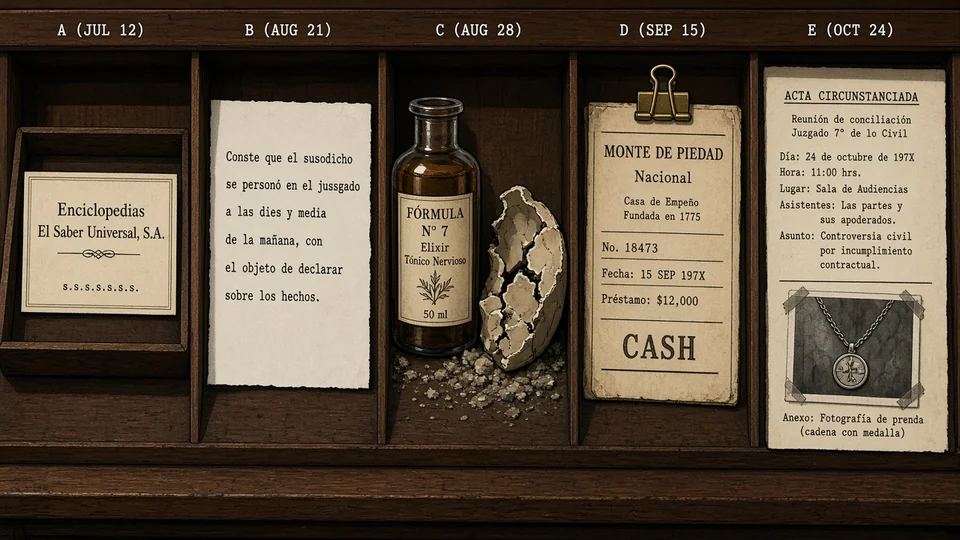
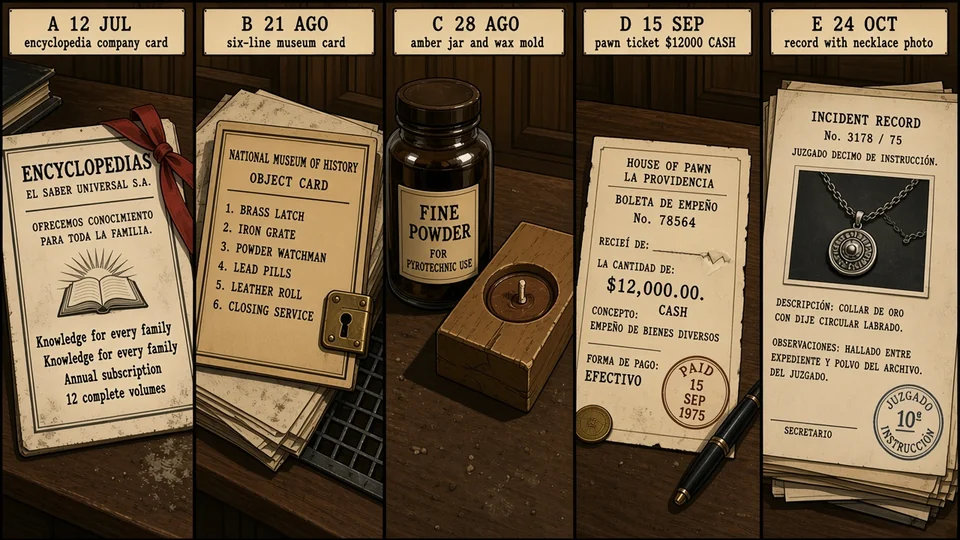
Wire English Case 5 plates into the EN climax and pointing board
Redraw examine_expediente_serie_en so panel B is the six-line museum
card, point the English Present & Point at that WebP, and show the
English four-line typewriter plate in the last climax stage.

diff --git a/src/case/case5/Private/trial_day2_success_en.ts b/src/case/case5/Private/trial_day2_success_en.ts
@@ -1,7 +1,7 @@
 // @Architecture(descriptionShort="Case 5 day-2 contradiction success, point target, GIRO 2 (English)", type="data", icon="layers")
 /**
  * Case 5 Trial Day 2 — Barriga/Berrondo successes, Pointing 1, Turn 2 (spec §13), English.
- * Point-zone bounds measured on `examine_expediente_serie.webp` (five dated panels).
+ * Point-zone bounds measured on `examine_expediente_serie_en.webp` (five dated panels).
  */
 
 import type { DialogueLine, PointTargetContradiction } from '../../../types/index.js';
@@ -15,7 +15,7 @@ const PANEL_FAIL = (text: string): DialogueLine[] => [
 export const POINT_EXPEDIENTE_SERIE_EN: PointTargetContradiction = {
   targetEvidenceId: 'expediente_serie',
   promptQuestion: 'Point at the paper that already describes the product this witness admits selling.',
-  imageAsset: 'assets/examine_expediente_serie.webp',
+  imageAsset: 'assets/examine_expediente_serie_en.webp',
   zones: [
     { id: 'panel_a', bounds: [1, 12, 20, 92], isCorrect: false, failureDialogue: PANEL_FAIL('That card names the dissolved company, counselor. It leads us to the card index, but it does not describe the product sold.') },
     { id: 'panel_b', bounds: [20, 12, 39, 92], isCorrect: true, failureDialogue: [] },

diff --git a/tests/case/Case5PresentPointZones.test.ts b/tests/case/Case5PresentPointZones.test.ts
@@ -30,6 +30,8 @@ describe('Case 5 Present & Point zones vs examine plates', () => {
     expect(hitsCorrect(POINT_EXPEDIENTE_SERIE, 30, 50)).toBe(true);
     expect(hitsCorrect(POINT_EXPEDIENTE_SERIE, 10, 50)).toBe(false);
     expect(isInsideBounds([20, 12, 39, 92], 25, 20)).toBe(true);
+    expect(POINT_EXPEDIENTE_SERIE.imageAsset).toBe('assets/examine_expediente_serie.webp');
+    expect(POINT_EXPEDIENTE_SERIE_EN.imageAsset).toBe('assets/examine_expediente_serie_en.webp');
     expect(POINT_EXPEDIENTE_SERIE_EN.zones.map((z) => z.bounds))
       .toEqual(POINT_EXPEDIENTE_SERIE.zones.map((z) => z.bounds));
   });

diff --git a/src/case/case5/Private/climax_stage5_en.ts b/src/case/case5/Private/climax_stage5_en.ts
@@ -6,7 +6,7 @@
 import type { ClimaxStage } from '../../../types/index.js';
 import { CASE5_CLIMAX_BREAKDOWN_EN } from './climax_breakdown_en.js';
 
-const PLATE_CUATRO_RENGLONES = 'assets/plate_cuatro_renglones.webp';
+const PLATE_CUATRO_RENGLONES = 'assets/plate_cuatro_renglones_en.webp';
 
 const CASE5_CLIMAX_STAGE5_SUCCESS_EN: ClimaxStage['successDialogue'] = [
   { speaker: 'DEFENSA', text: 'TAKE THAT!', sfx: 'desk_slam', cutin: 'objection_toma_eso', pose: 'chapulin_slam', bgm: 'pursuit' },

diff --git a/tools/case5_hotspot_overlay.py b/tools/case5_hotspot_overlay.py
@@ -127,6 +127,13 @@ POINT_SETS = [
         {"id": "panel_d", "bounds": [58, 12, 78, 92]},
         {"id": "panel_e", "bounds": [78, 12, 99, 92]},
     ]),
+    PointSet("POINT_EXPEDIENTE_SERIE_EN", "examine_expediente_serie_en.webp", [
+        {"id": "panel_a", "bounds": [1, 12, 20, 92]},
+        {"id": "panel_b", "bounds": [20, 12, 39, 92], "correct": True},
+        {"id": "panel_c", "bounds": [39, 12, 58, 92]},
+        {"id": "panel_d", "bounds": [58, 12, 78, 92]},
+        {"id": "panel_e", "bounds": [78, 12, 99, 92]},
+    ]),
     PointSet("CASE5_CLIMAX_STAGE3_POINT", "examine_estante_consulta.webp", [
         {"id": "tomo_i", "bounds": [3, 16, 18, 72]},
         {"id": "cartoncitos", "bounds": [19, 16, 40, 72]},
